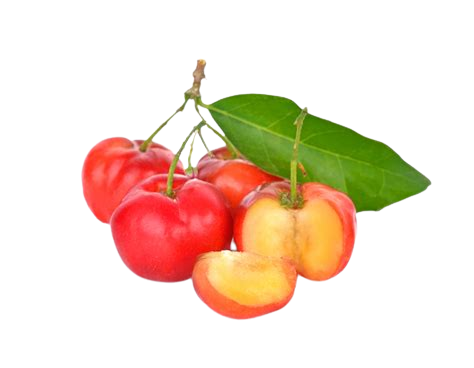
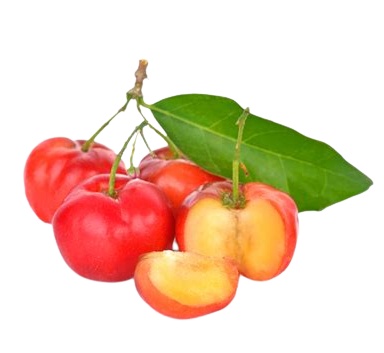
categories section ends

Changed region(s): [[0.0625, 0.1558, 0.9688, 0.9037], [0.7188, 0.3428, 0.7812, 0.3739]]

diff --git a/index.html b/index.html
@@ -259,25 +259,25 @@
       <h1 class="heading">product <span>categories</span></h1>
       <div class="box-container">
         <div class="box">
-          <img src="images/cat-1.png" alt="" />
+          <img src="images/cat-1.png" alt="" style="width:30rem ; padding-top:6rem "/>
           <h3>vegetables</h3>
           <p>upto 45% off</p>
           <a href="#" class="btn">shop now</a>
         </div>
         <div class="box">
-          <img src="images/cat-2.png" alt="" />
+          <img src="images/cat-2.png" alt="" style="width:30rem;"/>
           <h3>fresh fruits</h3>
           <p>upto 45% off</p>
           <a href="#" class="btn">shop now</a>
         </div>
         <div class="box">
-          <img src="images/cat-3.png" alt="" />
+          <img src="images/cat-3.png" alt="" style="width:30rem;padding-top: 2.5rem;" />
           <h3>dairy products</h3>
           <p>upto 45% off</p>
           <a href="#" class="btn">shop now</a>
         </div>
         <div class="box">
-          <img src="images/cat-4.png" alt="" />
+          <img src="images/cat-4.png" alt="" style="width:30rem;padding-top: 8.5rem" />
           <h3>fresh meat</h3>
           <p>upto 45% off</p>
           <a href="#" class="btn">shop now</a>

diff --git a/style.css b/style.css
@@ -384,3 +384,37 @@ section{
   color: var(--orange);
   padding:.5rem 0 ;
 }
+
+.categories .box-container{
+  display:grid;
+  grid-template-columns: repeat(auto-fit,minmax(26rem,1fr));
+  gap:1.5rem;
+}
+.categories .box-container .box{
+  padding: 3rem 2rem;
+  border-radius: .5rem;
+  background: #fff;
+  box-shadow: var(--box-shadow);
+  outline: var(--outline);
+  outline-offset: -1rem;
+  text-align: center;
+}
+.categories .box-container .box:hover{
+  outline: var(--outline-hover);
+  outline-offset: 0rem;
+}
+.categories .box-container .box img{
+  margin: 1rem 0;
+  height: 30rem;
+}
+.categories .box-container .box h3{
+  font-size: 2rem;
+  color: var(--black);
+  line-height: 1.8;
+}
+.categories .box-container .box p{
+  font-size: 1.7rem;
+  color: var(--light-color);
+  line-height: 1.8;
+  padding: 1rem 0;
+}
